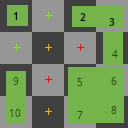
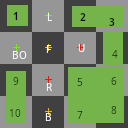
add a todo to fix the textures cause they never work

diff --git a/main.cpp b/main.cpp
@@ -21,6 +21,8 @@ using namespace Raster;
 // Blue: 0xff87ceeb
 #define BACKGROUND 0xff000000
 
+// BIG TODO: some faces are flipped, maybe from like the uhh point p on line 301, but still check getColour by testing a value in blender
+
 int main() {
     if (SDL_Init(SDL_INIT_VIDEO) < 0) {
         cout << "no" << endl;
@@ -77,7 +79,7 @@ int main() {
     obj.transform.position = {0, 2, 10};
     obj.transform.setRotation(180, 0, 0);
 
-    Model obj2 = Model::fromOBJ(exeDir.string() + "resources/minecraftCube.obj", exeDir.string() + "resources/grass.bin");
+    Model obj2 = Model::fromOBJ(exeDir.string() + "resources/cubeWithTexture.obj", exeDir.string() + "resources/grid.bin");
     obj2.transform.position = {-2, 3, -10};
 
     scene.models.push_back(spinTri); // 0
